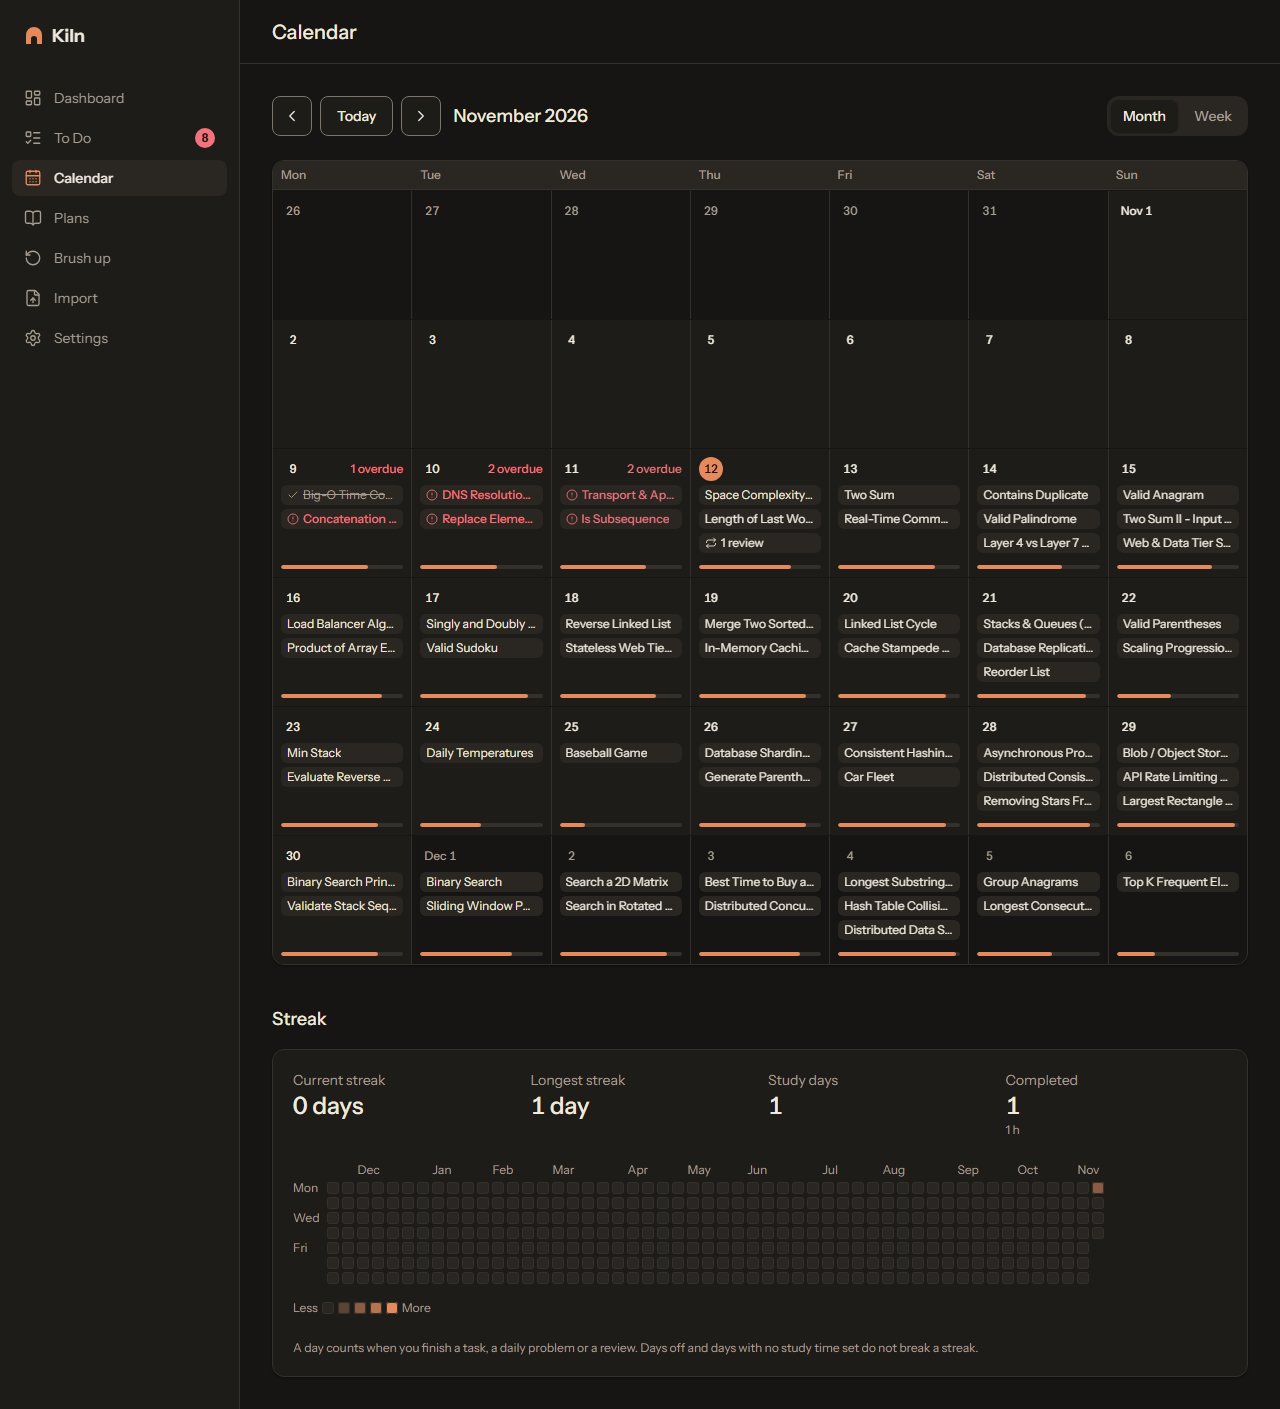
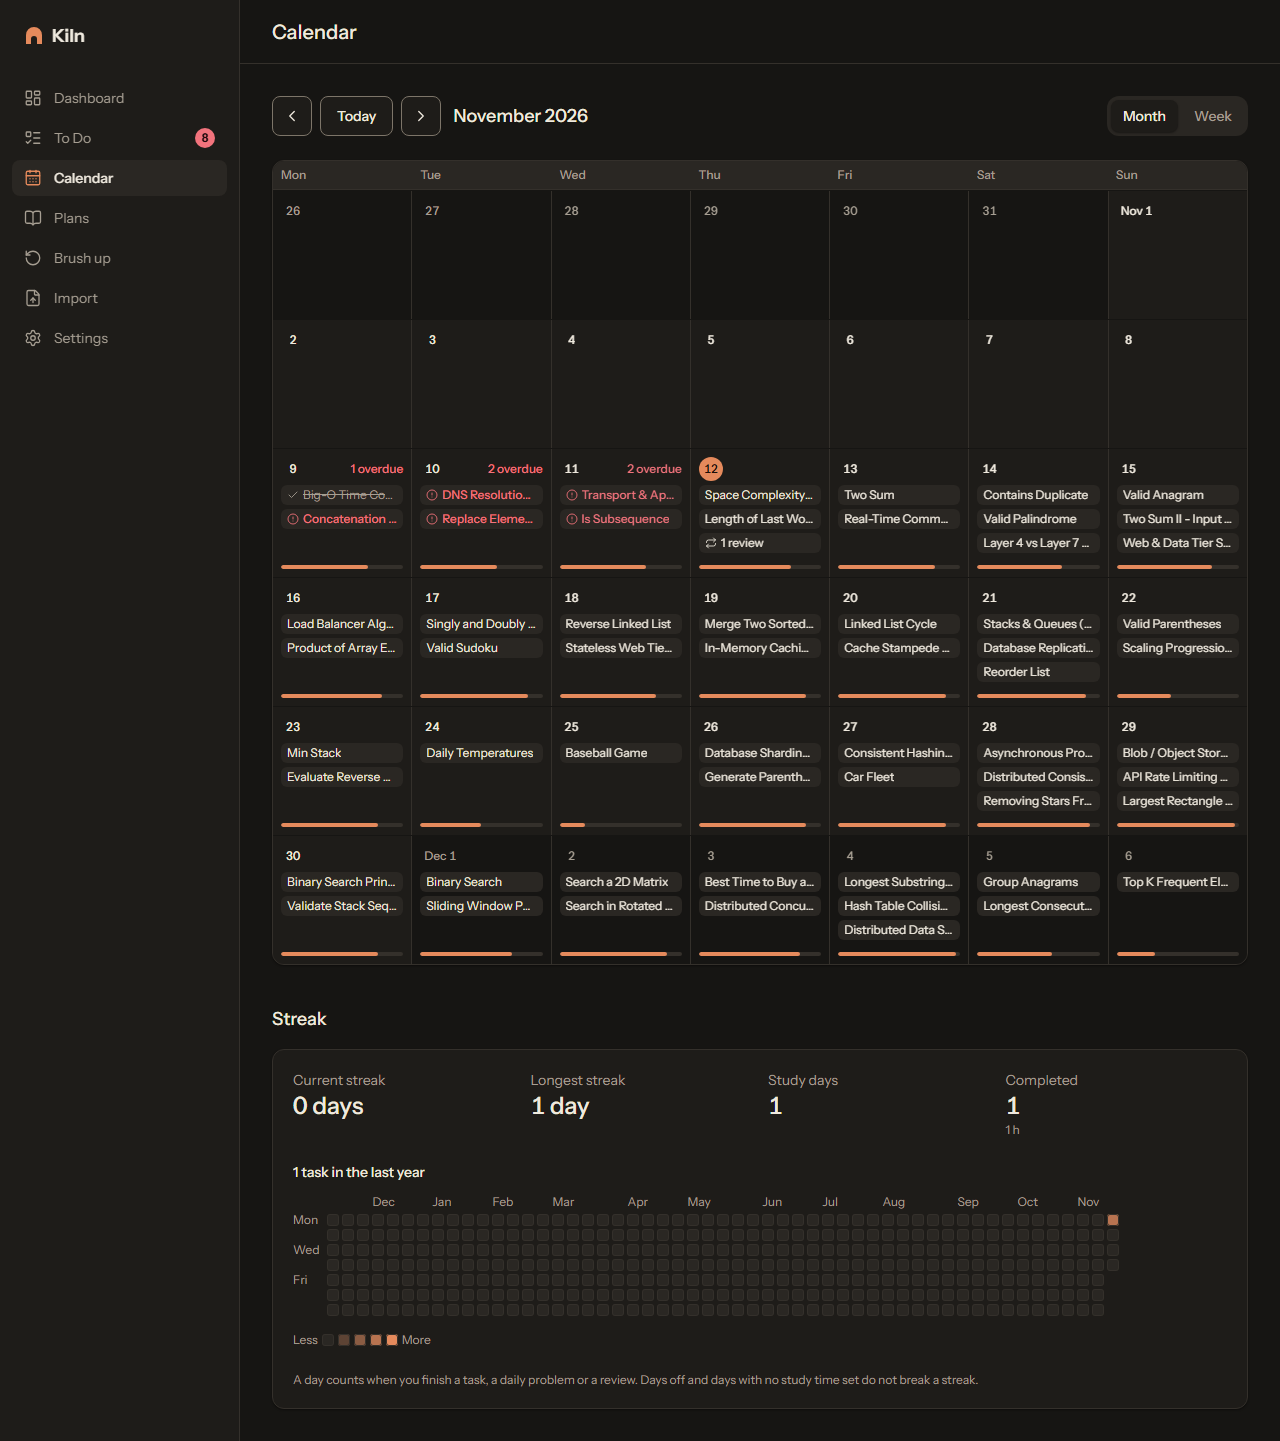
Add design screenshots and make the DSA import e2e sturdier

diff --git a/e2e/screenshots.spec.ts b/e2e/screenshots.spec.ts
@@ -1,5 +1,7 @@
-import { expect, test } from '@playwright/test'
+import { fileURLToPath } from 'node:url'
+import { expect, test, type Locator, type Page } from '@playwright/test'
 import { advanceDays, openSeeded } from './seed'
+import { mockWorker } from './worker-mock'
 
 // Design review screenshots, written to docs/design/. Off by default: SCREENSHOTS=1 npx playwright test screenshots
 // The dashboard, To Do and calendar are shot with the sample plans, a few days in: one lesson done on day one,
@@ -21,6 +23,8 @@ for (const colorScheme of ['light', 'dark'] as const) {
           await openSeeded(page, '/todo')
           const lesson = page.getByRole('region', { name: 'Today' }).getByRole('listitem').filter({ hasText: '· Lesson ·' }).first()
           await lesson.getByRole('checkbox').click({ force: true })
+          // The rating keys only work once the sheet is open; pressing early lost the key on a cold first run.
+          await expect(page.getByRole('dialog', { name: 'How did it go?' })).toBeVisible()
           await page.keyboard.press('3')
           await expect(lesson.getByText('Done', { exact: true })).toBeVisible()
           await advanceDays(page, 3)
@@ -33,6 +37,133 @@ for (const colorScheme of ['light', 'dark'] as const) {
         if (name === 'dashboard') await expect(page.getByText(/Expected finish/).first()).toBeVisible()
         await page.evaluate(() => document.fonts.ready)
         await page.screenshot({ path: `docs/design/${name}-${size}-${colorScheme}.png`, fullPage: name === 'design' || name === 'calendar' })
+      })
+    }
+  }
+}
+
+// The screens added by the UX overhaul. Each scene sets itself up and returns whether to shoot the full page.
+const canvas = fileURLToPath(new URL('../fixtures/calendars/canvas.ics', import.meta.url))
+const QUICK_ADD = ['# Cells', 'Read chapter 1 45m', 'Watch the cell video https://www.youtube.com/watch?v=abc 20m', 'Flashcards https://quizlet.com/123/cells ?', 'Practice quiz 1h', '## Genetics', 'Read chapter 2 1h30m !', 'Punnett squares 40m', 'Lab write-up', '# Exam prep', 'Mock exam 1h30m', 'Final exam tomorrow'].join('\n')
+
+async function openFirstPlan(page: Page) {
+  await openSeeded(page, '/plans')
+  await page.getByRole('main').getByRole('heading', { level: 2 }).first().getByRole('link').click()
+  await expect(page.getByRole('heading', { level: 2, name: 'Modules' })).toBeVisible()
+}
+
+/**
+ * Marks up to 90 open tasks done on scattered days of the past 365 (raw IndexedDB), so the heatmap has a history.
+ * Rows get a fresh updatedAt and this device's id (meta "deviceId"), as updateRecord writes them. Returns how many rows it wrote.
+ */
+async function backfillHistory(page: Page): Promise<{ wrote: number; open: number }> {
+  return page.evaluate(
+    () =>
+      new Promise<{ wrote: number; open: number }>((resolve, reject) => {
+        const open = indexedDB.open('kiln')
+        open.onerror = () => reject(open.error)
+        open.onsuccess = () => {
+          const tx = open.result.transaction(['meta', 'tasks'], 'readwrite')
+          const store = tx.objectStore('tasks')
+          let wrote = 0
+          let openTasks = 0
+          tx.objectStore('meta').get('deviceId').onsuccess = (m) => {
+            const deviceId = (m.target as IDBRequest<{ value: string } | undefined>).result?.value
+            if (!deviceId) return reject(new Error('no deviceId in meta'))
+            store.openCursor().onsuccess = (e) => {
+              const cursor = (e.target as IDBRequest<IDBCursorWithValue | null>).result
+              if (!cursor) return
+              const t = cursor.value
+              if (!t.deleted && t.status === 'open') {
+                openTasks++
+                if (wrote < 90) {
+                  // Deterministic spread over the year: clusters of busy days with gaps, denser toward the present.
+                  const daysAgo = Math.min(364, Math.floor(((wrote * 37) % 100) ** 1.45 / 2.2) + (wrote % 9 === 0 ? 40 : 1))
+                  cursor.update({ ...t, status: 'done', completedAt: Date.now() - daysAgo * 86_400_000, updatedAt: Math.max(Date.now(), t.updatedAt + 1), deviceId })
+                  wrote++
+                }
+              }
+              cursor.continue()
+            }
+          }
+          tx.oncomplete = () => resolve({ wrote, open: openTasks })
+          tx.onerror = () => reject(tx.error)
+        }
+      }),
+  )
+}
+
+const scenes: Record<string, (page: Page) => Promise<{ full?: boolean; clip?: Locator } | void>> = {
+  onboarding: async (page) => {
+    await mockWorker(page.context())
+    await page.goto('/')
+    await expect(page.getByRole('heading', { name: 'How many minutes can you study?' })).toBeVisible()
+    await expect(page.getByRole('radio', { name: /^Steady/ })).toBeChecked()
+  },
+  'todo-preferences': async (page) => {
+    await openSeeded(page, '/todo')
+    await page.getByRole('button', { name: 'To-do list preferences' }).click()
+    const dialog = page.getByRole('dialog', { name: 'To-do list preferences' })
+    await expect(dialog).toBeVisible()
+    await dialog.getByRole('radiogroup', { name: 'Show tasks until' }).locator('label', { hasText: 'Next week' }).click()
+  },
+  'quick-add': async (page) => {
+    await page.goto('/import')
+    await page.getByRole('tab', { name: 'Quick add' }).click()
+    const panel = page.getByRole('tabpanel', { name: 'Quick add' })
+    await panel.getByRole('textbox', { name: 'Plan title' }).fill('Biology')
+    await panel.getByRole('textbox', { name: 'Tasks, one per line' }).fill(QUICK_ADD)
+    await expect(panel.getByRole('status').first()).toHaveText('9 tasks in 3 modules')
+    return { full: true }
+  },
+  'course-calendar': async (page) => {
+    await page.goto('/import?tab=calendar')
+    const panel = page.getByRole('tabpanel', { name: 'From a course calendar' })
+    await panel.locator('input[type=file]').setInputFiles(canvas)
+    await expect(panel.getByRole('checkbox', { name: /^MATH-221-001: 3 assignments/ })).toBeChecked()
+    return { full: true }
+  },
+  'plan-edit': async (page) => {
+    await openFirstPlan(page)
+    await page.getByRole('button', { name: 'Edit plan' }).click()
+    await expect(page.getByRole('form', { name: 'Edit plan' }).getByRole('heading', { name: 'Edit plan' })).toBeFocused()
+  },
+  'plan-history': async (page) => {
+    await openFirstPlan(page)
+    await page.getByRole('button', { name: 'Edit plan' }).click()
+    const form = page.getByRole('form', { name: 'Edit plan' })
+    await form.getByRole('textbox', { name: 'Task name' }).first().fill('Renamed in the editor')
+    await form.getByRole('button', { name: 'Save plan' }).click()
+    await expect(page.getByRole('list', { name: 'Versions' }).getByRole('listitem')).toHaveCount(2)
+    await page.getByRole('heading', { level: 2, name: 'History' }).scrollIntoViewIfNeeded()
+    // Dismiss the toast so it does not sit over the list: it carries a Reschedule action, so it never closes on its own.
+    await page.getByRole('button', { name: 'Dismiss' }).click()
+    await expect(page.getByText('Plan saved')).toBeHidden()
+  },
+  heatmap: async (page) => {
+    await openSeeded(page, '/todo')
+    const { wrote, open } = await backfillHistory(page)
+    expect(wrote).toBe(Math.min(90, open)) // every row it meant to write was written
+    expect(wrote).toBe(90) // the sample plans have far more open tasks than that
+    await page.goto('/calendar')
+    const streak = page.getByRole('region', { name: 'Streak' })
+    await expect(streak.getByRole('group', { name: 'Study activity, last year' })).toBeVisible()
+    await expect(streak.getByText(`${wrote} tasks in the last year`)).toBeVisible()
+    return { clip: streak }
+  },
+}
+
+for (const colorScheme of ['light', 'dark'] as const) {
+  for (const [size, viewport] of Object.entries(sizes)) {
+    for (const [name, scene] of Object.entries(scenes)) {
+      test(`${name} ${size} ${colorScheme}`, async ({ page }) => {
+        await page.emulateMedia({ colorScheme, reducedMotion: 'reduce' })
+        await page.setViewportSize(viewport)
+        const shot = (await scene(page)) ?? {}
+        await page.evaluate(() => document.fonts.ready)
+        const path = `docs/design/${name}-${size}-${colorScheme}.png`
+        if (shot.clip) await shot.clip.screenshot({ path })
+        else await page.screenshot({ path, fullPage: shot.full })
       })
     }
   }

diff --git a/e2e/import.spec.ts b/e2e/import.spec.ts
@@ -6,9 +6,20 @@ import { expect, test, type Page } from '@playwright/test'
 const fixture = (name: string) => readFileSync(new URL(`../fixtures/plans/${name}.json`, import.meta.url), 'utf8')
 const publicFile = (name: string) => fileURLToPath(new URL(`../public/${name}`, import.meta.url))
 
+/**
+ * Puts the plan into the textarea the way a paste does: one value change and one input event.
+ * locator.fill() of a 40 to 50 kB plan takes 1.5 to 2 s in Chromium (it inserts the text through the editing
+ * pipeline and lays out every wrapped line), which times out the four-import test when the machine is busy.
+ */
 async function paste(page: Page, text: string) {
   await page.goto('/import')
-  await page.getByLabel('Plan text').fill(text)
+  const box = page.getByLabel('Plan text')
+  await expect(box).toBeVisible()
+  await box.evaluate((el, value) => {
+    // React tracks the value itself, so go through the native setter or it ignores the event.
+    Object.getOwnPropertyDescriptor(HTMLTextAreaElement.prototype, 'value')!.set!.call(el, value)
+    el.dispatchEvent(new Event('input', { bubbles: true }))
+  }, text)
 }
 
 /** Waits for the preview, imports, and checks that the app moved to the new plan's page. */

diff --git a/playwright.config.ts b/playwright.config.ts
@@ -18,7 +18,7 @@ export default defineConfig({
     command: `npm run build:e2e && npm run preview -- --outDir dist-e2e --port ${port} --strictPort`,
     url: origin,
     reuseExistingServer: !process.env.CI && !custom,
-    timeout: 120_000,
+    timeout: 300_000,
     // The build points at a pretend Worker; the tests answer its requests (e2e/worker-mock.ts).
     // The VAPID key is a syntactically valid placeholder (0x04 then 64 zero bytes), never used to push.
     env: {

diff --git a/e2e/a11y.spec.ts b/e2e/a11y.spec.ts
@@ -73,6 +73,7 @@ for (const colorScheme of ['light', 'dark'] as const) {
       await animationsDone(page)
       await page.keyboard.press('4')
       await expect(page.getByText(/^Completed /)).toBeVisible()
+      await animationsDone(page) // the Undo toast and the status fade in; axe must read their final colors
       expect(await seriousViolations(page)).toEqual([])
     })
 

diff --git a/docs/design/README.md b/docs/design/README.md
@@ -13,9 +13,16 @@ The layout follows a familiar course-site pattern: left nav rail with a red coun
 | Dashboard | [light](dashboard-desktop-light.png), [dark](dashboard-desktop-dark.png) | [light](dashboard-phone-light.png), [dark](dashboard-phone-dark.png) |
 | To Do | [light](todo-desktop-light.png), [dark](todo-desktop-dark.png) | [light](todo-phone-light.png), [dark](todo-phone-dark.png) |
 | Calendar (month view, full page with the streak heatmap) | [light](calendar-desktop-light.png), [dark](calendar-desktop-dark.png) | [light](calendar-phone-light.png), [dark](calendar-phone-dark.png) |
+| Onboarding (study-time presets) | [light](onboarding-desktop-light.png), [dark](onboarding-desktop-dark.png) | [light](onboarding-phone-light.png), [dark](onboarding-phone-dark.png) |
+| To-do list preferences dialog | [light](todo-preferences-desktop-light.png), [dark](todo-preferences-desktop-dark.png) | [light](todo-preferences-phone-light.png), [dark](todo-preferences-phone-dark.png) |
+| Quick add builder (full page) | [light](quick-add-desktop-light.png), [dark](quick-add-desktop-dark.png) | [light](quick-add-phone-light.png), [dark](quick-add-phone-dark.png) |
+| Import from a course calendar (full page) | [light](course-calendar-desktop-light.png), [dark](course-calendar-desktop-dark.png) | [light](course-calendar-phone-light.png), [dark](course-calendar-phone-dark.png) |
+| Plan editor | [light](plan-edit-desktop-light.png), [dark](plan-edit-desktop-dark.png) | [light](plan-edit-phone-light.png), [dark](plan-edit-phone-dark.png) |
+| Plan history (versions, restore) | [light](plan-history-desktop-light.png), [dark](plan-history-desktop-dark.png) | [light](plan-history-phone-light.png), [dark](plan-history-phone-dark.png) |
+| Streak and heatmap (a year of sample history) | [light](heatmap-desktop-light.png), [dark](heatmap-desktop-dark.png) | [light](heatmap-phone-light.png), [dark](heatmap-phone-dark.png) |
 | Design system (full page) | [light](design-desktop-light.png), [dark](design-desktop-dark.png) | [light](design-phone-light.png), [dark](design-phone-dark.png) |
 
-The /design page shows every token and component twice, light and dark side by side, whatever the system theme. Dashboard, To Do and Calendar are shot with the sample plans three days in (one lesson done, the rest overdue); the design page has no data. Regenerate with `SCREENSHOTS=1 npx playwright test screenshots`.
+The /design page shows every token and component twice, light and dark side by side, whatever the system theme. Dashboard, To Do and Calendar are shot with the sample plans three days in (one lesson done, the rest overdue); the design page has no data. The screens added by the UX overhaul (onboarding to heatmap) are shot with the same sample plans; the heatmap shot first marks 90 tasks done on scattered past days so it shows a history. Regenerate with `SCREENSHOTS=1 npx playwright test screenshots`.
 
 ## Tokens
 
